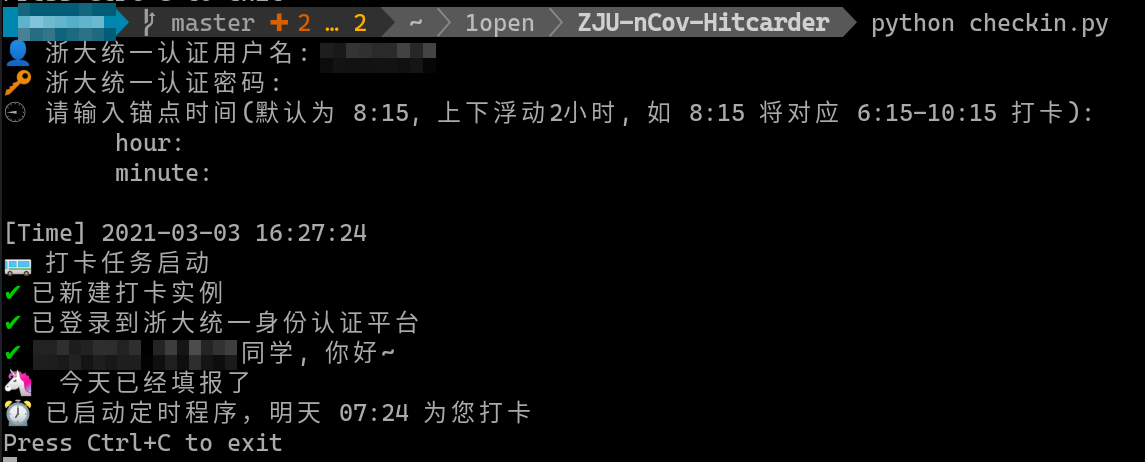
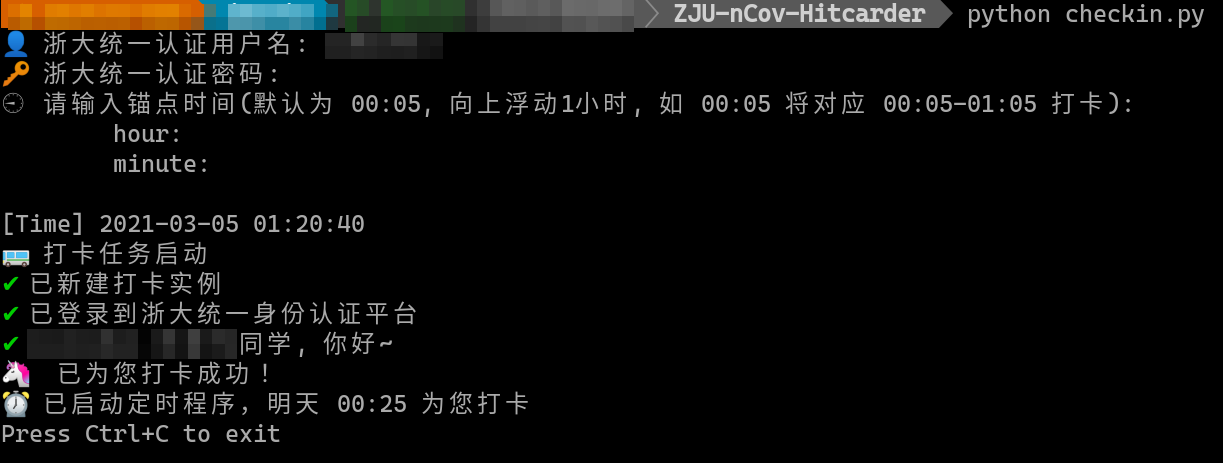
Update readme

Changed region(s): [[0.0, 0.0, 1.0, 0.3939], [0.0, 0.4545, 0.4585, 1.0]]

diff --git a/checkin.py b/checkin.py
@@ -94,6 +94,12 @@ class CheckIn(object):
         new_info["date"] = self.get_date()
         new_info["created"] = round(time.time())
         # form change
+        # -----------------------------------------------------------------------------
+        # new_info['address'] = ''                # 如: 'xx省xx市xx区xx街道xx小区'
+        # new_info['area'] = 'xx省 xx市 xx区'      # 如: '浙江省 杭州市 西湖区'  记得中间用空格隔开, 省市区/县名称可以参考 打卡页面->基本信息->家庭所在地 中对应的省市区/县名
+        # new_info['province'] = new_info['area'].split(' ')[0]   # 省名
+        # new_info['city'] = new_info['area'].split(' ')[1]       # 市名
+        # -----------------------------------------------------------------------------
         new_info['jrdqtlqk[]'] = 0
         new_info['jrdqjcqk[]'] = 0
         new_info['sfsqhzjkk'] = 1   # 是否申领杭州健康码

diff --git a/README.md b/README.md
@@ -2,7 +2,7 @@
 
 浙大nCov肺炎健康打卡定时自动脚本
 
- - 可给定锚点时间，默认为每天8点15分，实际打卡时间在锚点时间上下各浮动2小时
+ - 可给定锚点时间，默认为每天0点5分，实际打卡时间在锚点时间上浮0-1小时
  - 默认每次提交上次所提交的内容（只有时间部分更新）
  - 系统表单如有更新，在当天自行手机打卡，后面会自动按照你更新后的选项继续打卡
 
@@ -41,8 +41,8 @@ $ python3 checkin.py
     "username": "你的浙大统一认证平台用户名",
     "password": "你的浙大统一认证平台密码",
     "schedule": {
-        "hour": "8",     // 8点
-        "minute": "15"   // 15分 
+        "hour": "0",     // 0点
+        "minute": "5"   // 5分 
     }
 }
 ```
